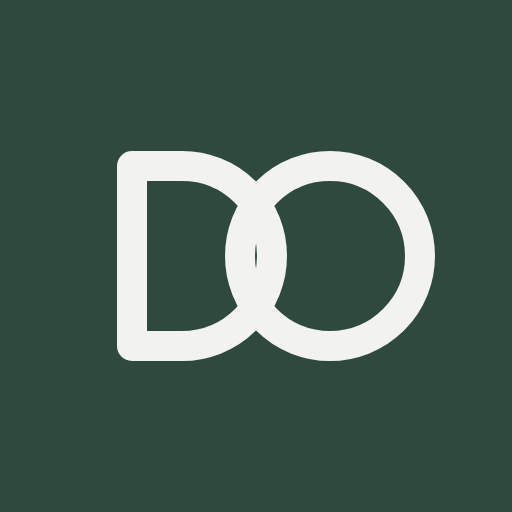
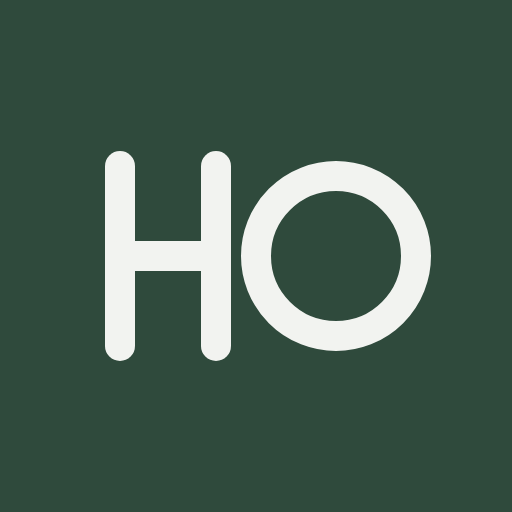
Renombra a Hang Out Tucumán y suma el filtro Day Out / Night Out
Claude-Session: https://claude.ai/code/session_01R3PvAWY9JjJftPeQcn9UWY

Changed region(s): [[0.1875, 0.2812, 0.875, 0.7188], [0.75, 0.5312, 0.7812, 0.5938], [0.75, 0.4062, 0.7812, 0.4688]]

diff --git a/app.js b/app.js
@@ -1,4 +1,4 @@
-/* Day Out Tucumán: aplicación. El contenido vive en data/lugares.json */
+/* Hang Out Tucumán: aplicación. El contenido vive en data/lugares.json */
 
 var CATEGORIAS = [
   { id: 'comer', nombre: 'Café y copas', sub: 'Cafés, bares, pastelerías',
@@ -50,8 +50,29 @@ function vigente(lugar) {
   return isNaN(fecha.getTime()) || fecha.getTime() >= Date.now();
 }
 
+/* Filtro Day Out / Night Out. Un lugar sin momento cargado aparece en los dos. */
+var MOMENTOS = [['todo', 'Todo'], ['dia', 'Day Out'], ['noche', 'Night Out']];
+var momento = 'todo';
+try { momento = localStorage.getItem('dayout-momento') || 'todo'; } catch (e) { /* sin almacenamiento */ }
+
+function coincide(lugar) {
+  if (momento === 'todo') return true;
+  var m = lugar.momento || 'ambos';
+  return m === 'ambos' || m === momento;
+}
+
+function etiquetaMomento(lugar) {
+  return { dia: 'De día', noche: 'De noche', ambos: 'De día y de noche' }[lugar.momento] || '';
+}
+
+function filtroMomento() {
+  return '<div class="momentos" role="group" aria-label="Filtrar por momento del día">' + MOMENTOS.map(function (m) {
+    return '<button class="momento" data-accion="momento" data-valor="' + m[0] + '" aria-pressed="' + (momento === m[0]) + '">' + m[1] + '</button>';
+  }).join('') + '</div>';
+}
+
 function lugaresVigentes() {
-  return datos.lugares.filter(vigente);
+  return datos.lugares.filter(vigente).filter(coincide);
 }
 
 function deCategoria(id) {
@@ -166,18 +187,19 @@ function vistaInicio() {
   var hayLugares = lugaresVigentes().length > 0;
 
   return '<main class="pagina">' +
-    '<div class="marca"><div class="marca-nombre">Day Out</div><div class="marca-ciudad">Tucumán</div></div>' +
+    '<div class="marca"><div class="marca-nombre">Hang Out</div><div class="marca-ciudad">Tucumán</div></div>' +
     '<h1 class="lema">Una guía de lugares para visitar en Tucumán, seas residente o turista.</h1>' +
+    filtroMomento() +
     (agenda.length ? '<section class="bloque"><h2 class="etiqueta">Agenda</h2><div class="lista">' + agenda.map(tarjetaEvento).join('') + '</div></section>' : '') +
     '<section class="bloque"><h2 class="etiqueta">Categorías</h2><div class="categorias">' + cats + '</div></section>' +
     (nuevos.length ? '<section class="bloque"><h2 class="etiqueta">Hallazgos</h2><div class="lista">' + nuevos.map(tarjeta).join('') + '</div></section>' : '') +
     (hayLugares ? '<button class="boton boton-lleno boton-grande" data-accion="azar">' + svg(ICONOS.azar, 20, 1.8) + '<span>Sorprendeme con un lugar</span></button>' : '') +
     '<section class="sugerir"><div class="sugerir-titulo">¿Falta algún lugar?</div>' +
-    '<a class="boton" target="_blank" rel="noopener" href="' + esc(whatsapp('Hola, te sugiero un lugar para Day Out Tucumán: ')) + '">' + svg(ICONOS.chat, 18, 1.8) + '<span>Sugerilo por WhatsApp</span></a></section>' +
+    '<a class="boton" target="_blank" rel="noopener" href="' + esc(whatsapp('Hola, te sugiero un lugar para Hang Out Tucumán: ')) + '">' + svg(ICONOS.chat, 18, 1.8) + '<span>Sugerilo por WhatsApp</span></a></section>' +
     '<section class="cierre">' +
-    '<p>Day Out Tucumán no es un directorio ni pretende reunirlo todo. Es una selección de aquellos sitios que nos gustan especialmente. Un café de nicho, una librería, un productor de queso de barrio, un rincón perfecto para leer en un parque.</p>' +
-    '<p>Day Out Tucumán es una invitación a ir a los mejores lugares y a ser turista en tu ciudad, o a recorrer San Miguel de Tucumán y Yerba Buena con el criterio de un local para quien está de visita.</p>' +
-    '<p>Day Out Tucumán es autofinanciado, no es un sitio de publicidad. Un lugar aparece porque fuimos, y porque volveríamos.</p>' +
+    '<p>Hang Out Tucumán no es un directorio ni pretende reunirlo todo. Es una selección de aquellos sitios que nos gustan especialmente. Un café de nicho, una librería, un productor de queso de barrio, un rincón perfecto para leer en un parque.</p>' +
+    '<p>Hang Out Tucumán es una invitación a ir a los mejores lugares y a ser turista en tu ciudad, o a recorrer San Miguel de Tucumán y Yerba Buena con el criterio de un local para quien está de visita.</p>' +
+    '<p>Hang Out Tucumán es autofinanciado, no es un sitio de publicidad. Un lugar aparece porque fuimos, y porque volveríamos.</p>' +
     '<p>Si conocés los sitios destacados aquí, ¡nos gustaría saber qué te parecen! Dejanos tu reseña por privado.</p>' +
     '<p>Si conocés un sitio que creés que merece ser parte de esta selección, ¡avisanos!</p>' +
     '</section>' +
@@ -191,13 +213,14 @@ function vistaCategoria(id) {
   return '<main class="pagina">' +
     '<a class="volver" href="#/" aria-label="Volver al inicio">' + svg(ICONOS.volver, 20, 1.8) + '</a>' +
     '<div><h1 class="titulo">' + c.nombre + '</h1><div class="subtitulo">' + c.sub + '</div></div>' +
-    (lista.length ? '<div class="lista">' + lista.map(tarjeta).join('') + '</div>' : '<p class="vacio">Todavía no hay lugares en esta categoría.</p>') +
+    filtroMomento() +
+    (lista.length ? '<div class="lista">' + lista.map(tarjeta).join('') + '</div>' : '<p class="vacio">' + (momento === 'todo' ? 'Todavía no hay lugares en esta categoría.' : 'No hay nada cargado para este momento del día. Probá con Todo.') + '</p>') +
     '</main>' + nav('');
 }
 
 function vistaGuardados() {
   var ids = leerGuardados();
-  var lista = lugaresVigentes().filter(function (l) { return ids.indexOf(l.id) !== -1; });
+  var lista = datos.lugares.filter(vigente).filter(function (l) { return ids.indexOf(l.id) !== -1; });
   return '<main class="pagina">' +
     '<div><h1 class="titulo">Guardados</h1><div class="subtitulo">Los lugares que marcaste para ir</div></div>' +
     (lista.length ? '<div class="lista">' + lista.map(tarjeta).join('') + '</div>' : '<p class="vacio">Todavía no guardaste ningún lugar. Tocá el marcador en la ficha de un lugar para tenerlo acá.</p>') +
@@ -213,7 +236,7 @@ function vistaLugar(id) {
   }
   var guardado = leerGuardados().indexOf(lugar.id) !== -1;
   var filas = [
-    ['Tipo', lugar.tipo], ['Dirección', lugar.direccion], ['Precio', lugar.precio],
+    ['Tipo', lugar.tipo], ['Momento', etiquetaMomento(lugar)], ['Dirección', lugar.direccion], ['Precio', lugar.precio],
     ['Ideal para', lugar.idealPara], ['Instagram', lugar.instagram], ['WhatsApp', lugar.whatsapp]
   ].filter(function (f) { return f[1]; }).map(function (f) {
     var valor = esc(f[1]);
@@ -250,7 +273,7 @@ function vistaLugar(id) {
     (filas ? '<dl class="datos">' + filas + '</dl>' : '') +
     (lugar.texto ? '<section class="bloque"><h2 class="etiqueta">' + (lugar.evento ? 'De qué se trata' : 'Por qué ir') + '</h2><div class="texto">' + esc(lugar.texto) + '</div></section>' : '') +
     '<div class="fuiste"><div class="fuiste-titulo">¿Ya fuiste?</div>' +
-    '<a class="boton boton-chico" target="_blank" rel="noopener" href="' + esc(whatsapp('Mi reseña de ' + lugar.nombre + ' para Day Out Tucumán: ')) + '">Dejar reseña</a></div>' +
+    '<a class="boton boton-chico" target="_blank" rel="noopener" href="' + esc(whatsapp('Mi reseña de ' + lugar.nombre + ' para Hang Out Tucumán: ')) + '">Dejar reseña</a></div>' +
     '</div></main>' + nav('');
 }
 
@@ -301,6 +324,12 @@ app.addEventListener('click', function (ev) {
     if (lista.length) location.hash = '#/lugar/' + encodeURIComponent(lista[Math.floor(Math.random() * lista.length)].id);
   } else if (accion === 'volver') {
     if (history.length > 1) { ev.preventDefault(); history.back(); }
+  } else if (accion === 'momento') {
+    momento = el.getAttribute('data-valor');
+    try { localStorage.setItem('dayout-momento', momento); } catch (e) { /* sin almacenamiento */ }
+    var arriba = window.scrollY;
+    pintar();
+    window.scrollTo(0, arriba);
   } else if (accion === 'ver') {
     abrirVisor(el.getAttribute('data-id'), Number(el.getAttribute('data-indice')) || 0);
   } else if (accion === 'guardar') {
@@ -308,7 +337,7 @@ app.addEventListener('click', function (ev) {
     el.setAttribute('aria-pressed', String(ahora));
     aviso(ahora ? 'Guardado' : 'Quitado de guardados');
   } else if (accion === 'compartir') {
-    var info = { title: el.getAttribute('data-nombre') + ' · Day Out Tucumán', url: location.href };
+    var info = { title: el.getAttribute('data-nombre') + ' · Hang Out Tucumán', url: location.href };
     if (navigator.share) navigator.share(info).catch(function () {});
     else if (navigator.clipboard) navigator.clipboard.writeText(location.href).then(function () { aviso('Enlace copiado'); });
   }

diff --git a/admin.html b/admin.html
@@ -4,7 +4,7 @@
 <meta charset="utf-8">
 <meta name="viewport" content="width=device-width, initial-scale=1">
 <meta name="robots" content="noindex">
-<title>Panel · Day Out Tucumán</title>
+<title>Panel · Hang Out Tucumán</title>
 <link rel="stylesheet" href="https://fonts.googleapis.com/css2?family=Hanken+Grotesk:wght@400;500;600;700&display=swap">
 <link rel="stylesheet" href="styles.css">
 <style>
@@ -32,7 +32,7 @@
 <body>
 <div class="app">
 <main class="pagina">
-  <div class="marca"><div class="marca-nombre">Day Out</div><div class="marca-ciudad">Panel privado</div></div>
+  <div class="marca"><div class="marca-nombre">Hang Out</div><div class="marca-ciudad">Panel privado</div></div>
 
   <section class="panel" id="acceso">
     <div class="campo">
@@ -58,6 +58,7 @@
       <div class="opciones" id="categorias"></div>
     </fieldset>
 
+    <div class="campo"><label for="momento">Momento</label><select id="momento"><option value="">Sin definir (aparece en los dos)</option><option value="dia">Day Out, de día</option><option value="noche">Night Out, de noche</option><option value="ambos">Los dos</option></select></div>
     <div class="campo"><label for="tipo">Tipo</label><input id="tipo" type="text" placeholder="Café de nicho"></div>
     <div class="campo"><label for="zona">Zona o barrio</label><input id="zona" type="text"></div>
     <div class="campo"><label for="breve">Reseña breve</label><input id="breve" type="text" maxlength="140"><small>Una o dos líneas. Es lo que se ve en la tarjeta.</small></div>

diff --git a/index.html b/index.html
@@ -3,10 +3,10 @@
 <head>
 <meta charset="utf-8">
 <meta name="viewport" content="width=device-width, initial-scale=1, viewport-fit=cover">
-<title>Day Out Tucumán</title>
+<title>Hang Out Tucumán</title>
 <meta name="description" content="Una selección de lugares para salir y conocer en Tucumán.">
 <meta name="theme-color" content="#F2F3F0">
-<meta property="og:title" content="Day Out Tucumán">
+<meta property="og:title" content="Hang Out Tucumán">
 <meta property="og:description" content="Una selección de lugares para salir y conocer en Tucumán.">
 <link rel="manifest" href="manifest.webmanifest">
 <link rel="icon" href="icons/icon.svg" type="image/svg+xml">
@@ -18,7 +18,7 @@
 </head>
 <body>
 <div id="app" class="app"></div>
-<noscript>Day Out Tucumán necesita JavaScript para funcionar.</noscript>
+<noscript>Hang Out Tucumán necesita JavaScript para funcionar.</noscript>
 <script src="app.js"></script>
 </body>
 </html>

diff --git a/admin.js b/admin.js
@@ -107,6 +107,7 @@ function cargarFormulario(lugar) {
   document.querySelectorAll('#categorias input').forEach(function (caja) {
     caja.checked = (lugar.categorias || []).indexOf(caja.value) !== -1;
   });
+  $('momento').value = lugar.momento || '';
   var ev = lugar.evento || {};
   $('cuando').value = ev.cuando || '';
   ['inicio', 'fin'].forEach(function (campo) {
@@ -181,6 +182,7 @@ function publicar(ev) {
       lugar.nombre = nombre;
       lugar.categorias = cats;
       CAMPOS.forEach(function (c) { if (c !== 'nombre') lugar[c] = $(c).value.trim(); });
+      if ($('momento').value) lugar.momento = $('momento').value; else delete lugar.momento;
       if (rutaFoto) lugar.foto = rutaFoto;
       if (!lugar.foto) lugar.foto = '';
       if (rutasGaleria.length) lugar.galeria = (lugar.galeria || []).concat(rutasGaleria);

diff --git a/styles.css b/styles.css
@@ -227,3 +227,8 @@ img { display: block; max-width: 100%; }
 .tarjeta-evento-texto { padding: 16px; display: flex; flex-direction: column; gap: 8px; }
 .tarjeta-evento-nombre { font-size: 20px; font-weight: 600; letter-spacing: -0.4px; line-height: 1.15; }
 .tarjeta-evento-cuando { font-size: 14px; font-weight: 600; color: var(--acento); }
+
+/* Filtro Day Out / Night Out */
+.momentos { display: grid; grid-template-columns: repeat(3, minmax(0, 1fr)); gap: 4px; padding: 4px; background: var(--tarjeta); border-radius: 16px; }
+.momento { min-height: 44px; border: none; border-radius: 12px; background: transparent; color: var(--gris); font-size: 14px; font-weight: 600; }
+.momento[aria-pressed="true"] { background: var(--tinta); color: #FFFFFF; }

diff --git a/README.md b/README.md
@@ -1,4 +1,4 @@
-# Day Out Tucumán
+# Hang Out Tucumán
 
 Una selección de lugares para salir y conocer en Tucumán.
 
